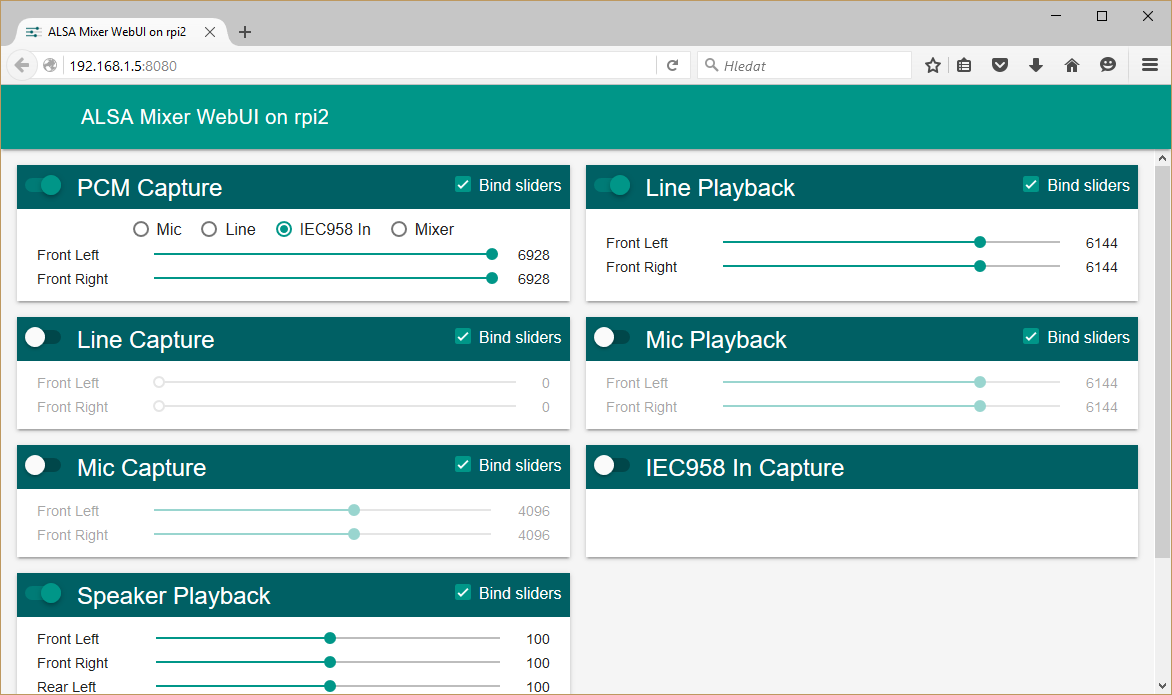
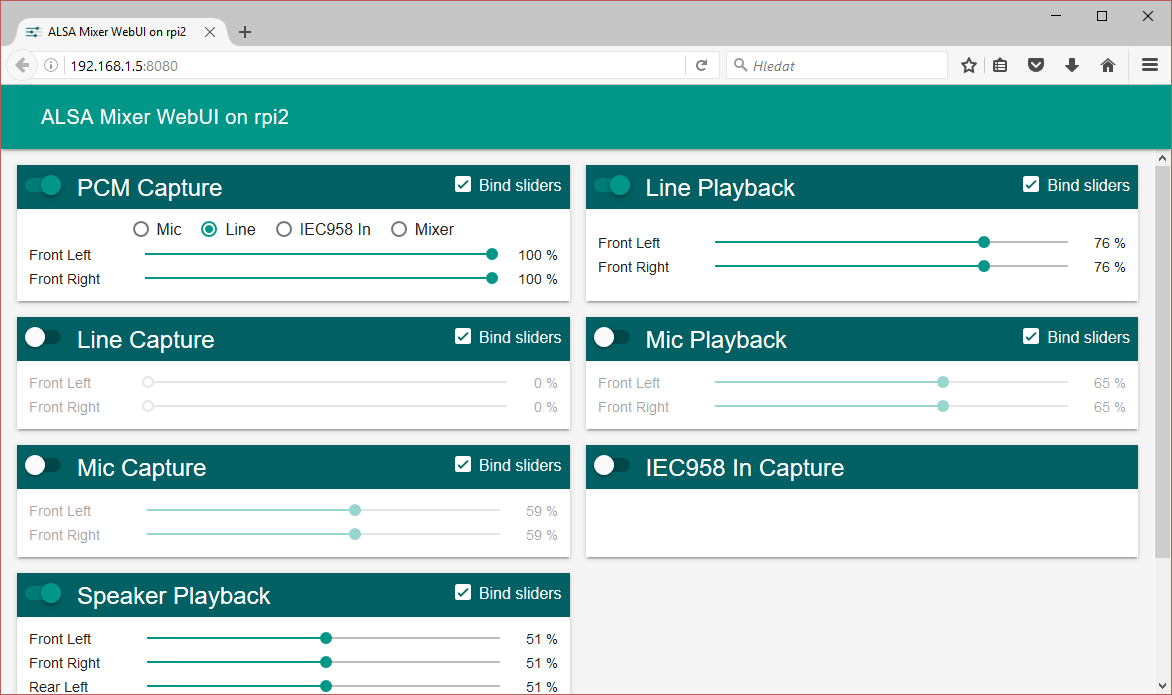
Added support for IE & minor graphical changes

diff --git a/htdocs/js/script.js b/htdocs/js/script.js
@@ -1,22 +1,18 @@
 var controls;
 
-var getJSON = function(url)
+var getJSON = function(url, successCallback, failCallback)
 {
-	return new Promise(function (resolve, reject)
+	var xhttp = new XMLHttpRequest();
+	xhttp.onreadystatechange = function()
 	{
-		var xhr = new XMLHttpRequest();
-		xhr.open('GET', url, true);
-		xhr.responseType = 'json';
-		xhr.onload = function()
-		{
-			if (xhr.status === 200) {
-				resolve(xhr.response);
-			} else {
-				reject(xhr.status);
-			}
-		};
-		xhr.send();
-	});
+		if (xhttp.readyState == 4 && xhttp.status == 200) {
+			successCallback(JSON.parse(xhttp.responseText));
+		} else if (xhttp.readyState == 4 && typeof failCallback !== "undefined") {
+			failCallback(xhttp.status);
+		}
+	};
+	xhttp.open('GET', url, true);
+	xhttp.send();
 };
 
 var sendRequest = function(mode, url)
@@ -141,7 +137,7 @@ var drawControls = function(controls)
 						html += '<span class="channelDescription">' + control.volume.channels[i] + '</span>';
 					}
 					html += '<input type="range" min="' + control.volume.min + '" max="' + control.volume.max + '" stype="' + control.volume.step + '" value="' + control.volume.values[i] + '" onchange="changeVolume(' + control.volume.id + ', ' + i + ', this.value)" class="' + control.volume.id + '_volume mdl-slider mdl-js-slider">';
-					html += '<span id="' + control.volume.id + '_channel_desc_' + i + '" class="value ' + control.volume.id + 'channel_desc' + '">' + control.volume.values[i] + '</span>';
+					html += '<span id="' + control.volume.id + '_channel_desc_' + i + '" class="value ' + control.volume.id + 'channel_desc' + '">' + Math.round(100 * control.volume.values[i] / control.volume.max) + '</span>&nbsp;%';
 					html += '</div>';
 				}
 			}
@@ -184,9 +180,12 @@ var changeVolume = function(id, i, value)
 	document.body.className += " loading";
 	
 	document.getElementById(id + '_channel_desc_' + i).innerHTML = value;
-	
-	var bgFlexLower = document.getElementsByClassName(id + '_volume')[i].parentNode.childNodes[1].childNodes[0].style.flex;
-	var bgFlexUpper = document.getElementsByClassName(id + '_volume')[i].parentNode.childNodes[1].childNodes[1].style.flex;
+
+	var isBgFlexPresent = document.getElementsByClassName(id + '_volume')[i].parentNode.childNodes.length === 2;
+	if (isBgFlexPresent) {
+		var bgFlexLower = document.getElementsByClassName(id + '_volume')[i].parentNode.childNodes[1].childNodes[0].style.flex;
+		var bgFlexUpper = document.getElementsByClassName(id + '_volume')[i].parentNode.childNodes[1].childNodes[1].style.flex;
+	}
 	
 	if (document.getElementById(id + '_bind') && document.getElementById(id + '_bind').checked) {
 		//console.log("Changed volume for all channel on control [id=" + id + "] to value: " + value)
@@ -194,9 +193,11 @@ var changeVolume = function(id, i, value)
 		var descElements = document.getElementsByClassName(id + 'channel_desc');
 		for (var i = 0; i < volumeElements.length; i++) {
 			volumeElements[i].value = value;
-			descElements[i].innerHTML = value;
-			document.getElementsByClassName(id + '_volume')[i].parentNode.childNodes[1].childNodes[0].style.flex = bgFlexLower;
-			document.getElementsByClassName(id + '_volume')[i].parentNode.childNodes[1].childNodes[1].style.flex = bgFlexUpper;
+			descElements[i].innerHTML = Math.round(100 * value / volumeElements[i].getAttribute('max'));
+			if (isBgFlexPresent) {
+				document.getElementsByClassName(id + '_volume')[i].parentNode.childNodes[1].childNodes[0].style.flex = bgFlexLower;
+				document.getElementsByClassName(id + '_volume')[i].parentNode.childNodes[1].childNodes[1].style.flex = bgFlexUpper;
+			}
 		}
 	} else {
 		//console.log("Changed volume on channel " + i + " on control [id=" + id + "] to value: " + value);
@@ -214,7 +215,7 @@ var changeVolume = function(id, i, value)
 
 document.addEventListener("DOMContentLoaded", function(event)
 {
-	getJSON('controls/').then(function(data)
+	getJSON('controls/', function(data)
 	{
 		controls = getControls(data);
 		

diff --git a/htdocs/css/style.css b/htdocs/css/style.css
@@ -2,6 +2,21 @@ html, body {
 	background-color: #F5F5F5;
 }
 
+.mdl-layout__header-row {
+	padding-left: 40px;
+}
+@media screen and (max-width: 1024px) {
+	.mdl-layout__header-row {
+		padding-left: 16px;
+	}
+}
+
+@media (max-width: 479px) {
+	.mdl-grid {
+		padding: 4px;
+	}
+}
+
 .amixer-webui-control {
 	padding-bottom: 0;
 }
@@ -17,6 +32,11 @@ html, body {
 	margin-bottom: 0px;
 	padding: 8px;
 	height: 28px;
+}
+@media (max-width: 479px) {
+	.amixer-webui-control > .amixer-webui-control__title {
+		margin: -4px;
+	}
 }
 
 .amixer-webui-control > .amixer-webui-control__title .amixer-webui-control__title-text {
@@ -35,11 +55,23 @@ html, body {
 }
 
 .amixer-webui-control .mdl-checkbox__box-outline {
-	background-color: white;
+	border-color: white;
+}
+.amixer-webui-control .mdl-checkbox.is-checked .mdl-checkbox__box-outline {
+    border-color: white;
+    background-color: #006064;
+}
+.amixer-webui-control .mdl-checkbox.is-checked .mdl-checkbox__tick-outline {
[1 lines of base64/hex data omitted]
 }
 
 .amixer-webui-control > .amixer-webui-control__actions {
-	padding: 8px;
+	padding: 8px 0;
+}
+@media (max-width: 479px) {
+	.amixer-webui-control > .amixer-webui-control__actions {
+		padding-bottom: 4px;
+	}
 }
 
 .amixer-webui-control.off > .amixer-webui-control__actions {
@@ -49,6 +81,11 @@ html, body {
 .amixer-webui-control > .amixer-webui-control__actions .mdl-radio {
 	margin-left: 10px;
 	margin-right: 10px;
+}
+@media (max-width: 479px) {
+	.amixer-webui-control > .amixer-webui-control__actions .mdl-radio {
+		margin-left: inherit;
+	}
 }
 
 .amixer-webui-control .volumes {
@@ -60,8 +97,13 @@ html, body {
 	width: 120px;
 }
 
-.amixer-webui-control .volumes .mdl-slider__container {
+.amixer-webui-control .volumes .mdl-slider__container,
+.amixer-webui-control .volumes .mdl-slider__ie-container {
 	width: 100%;
+}
+.amixer-webui-control .volumes .mdl-slider__ie-container {
+	position: relative;
+	bottom: 5px;
 }
 
 

diff --git a/README.md b/README.md
@@ -14,6 +14,7 @@ Client-server application for easy configure of ALSA volume controls using netwo
 
 ## Supported browsers
 
+- Internet Explorer
 - Edge
 - Chrome
 - Firefox
